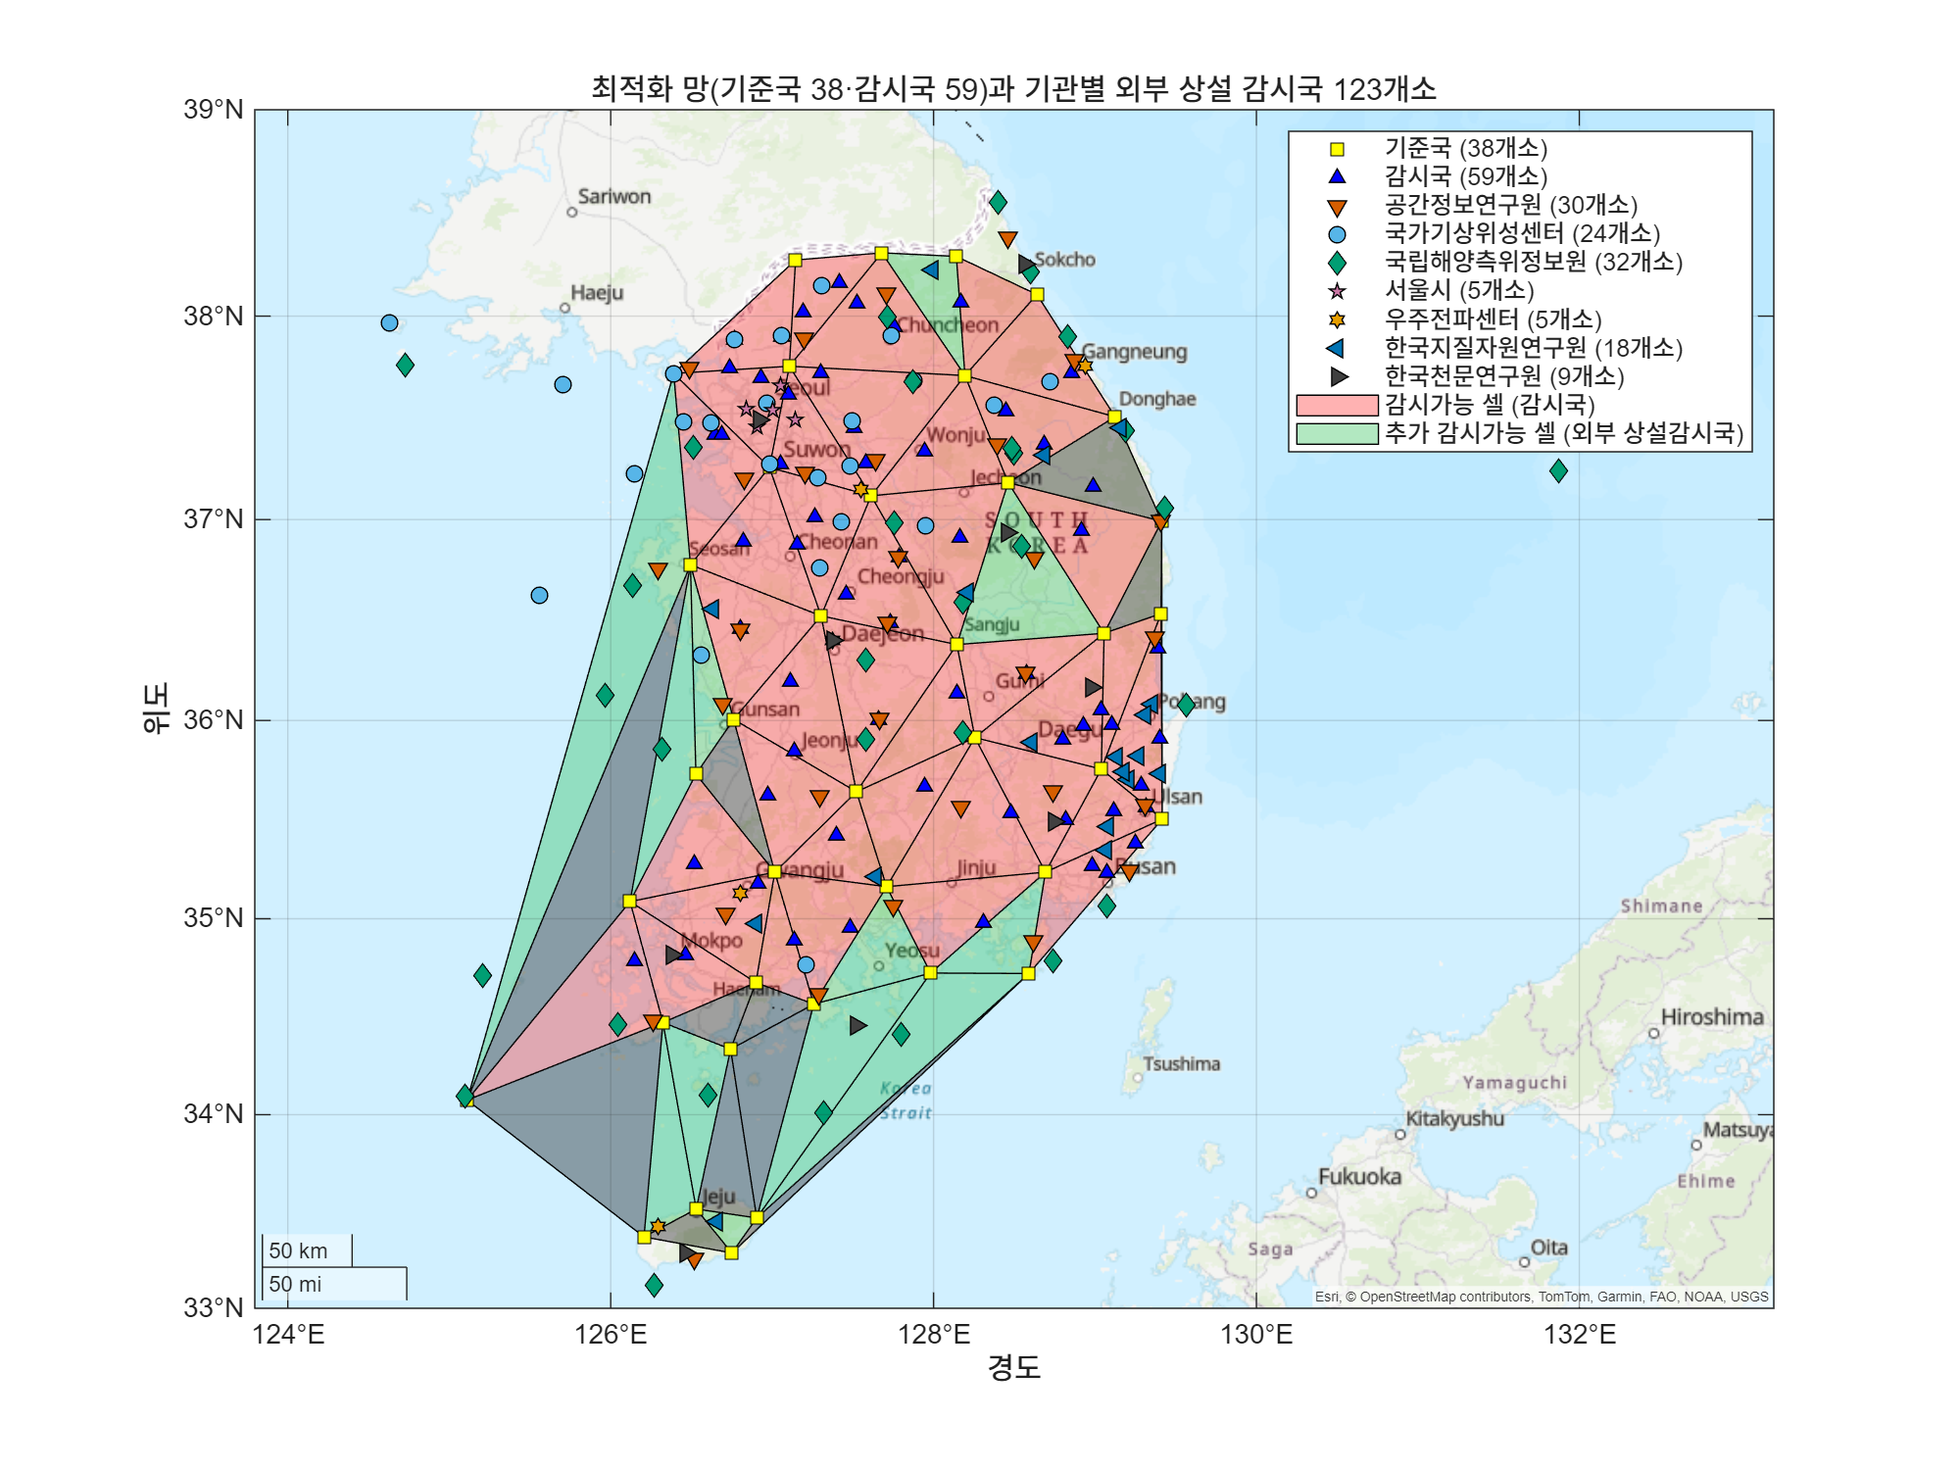
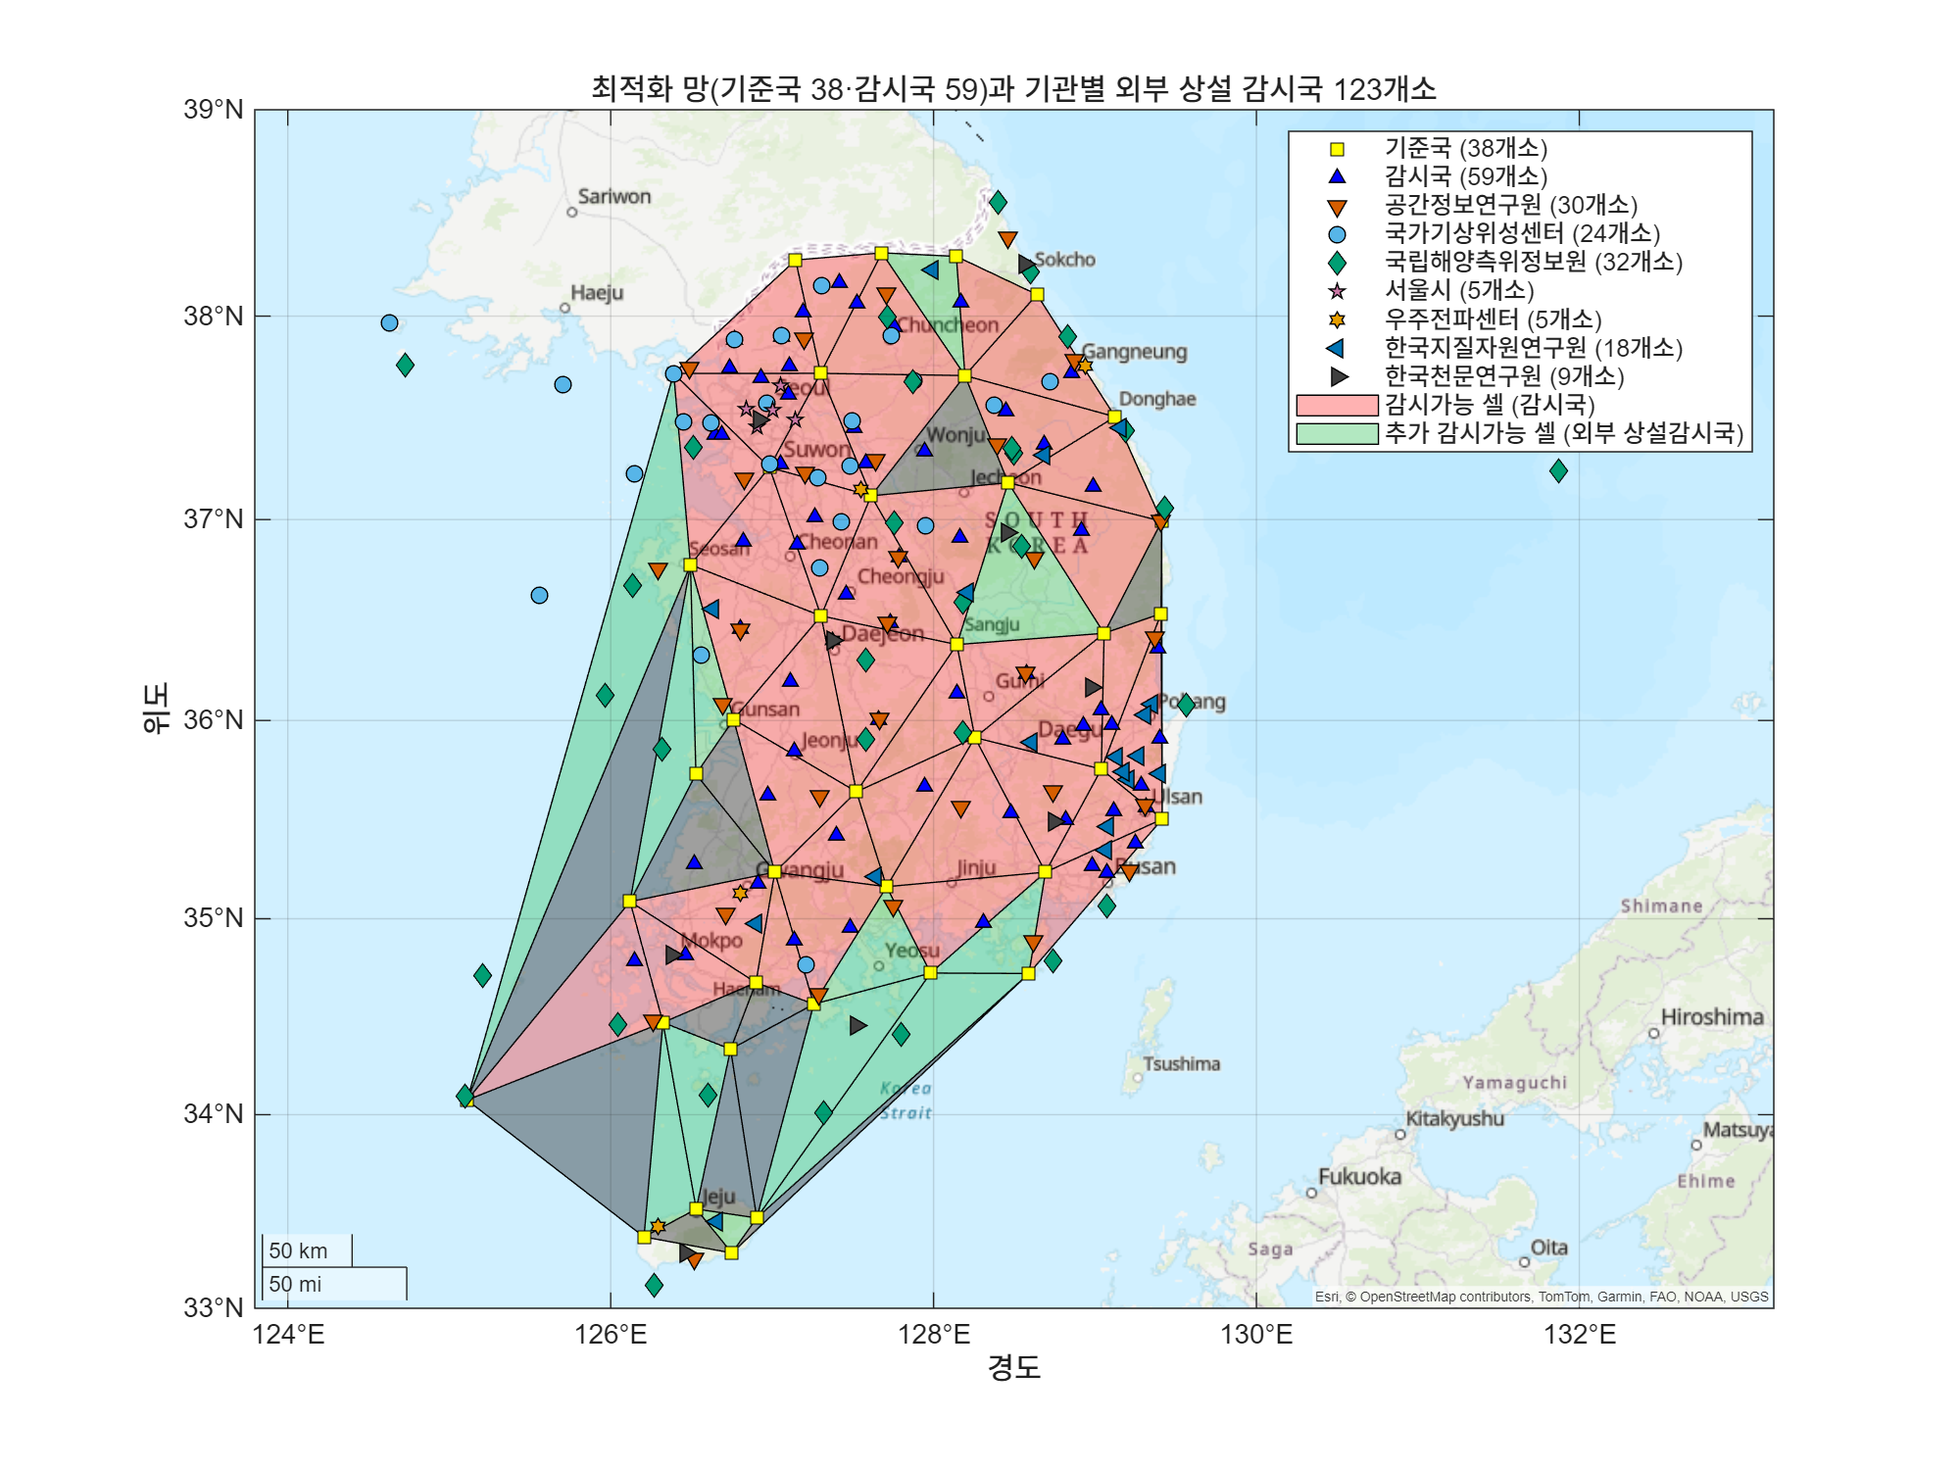
RsrchMt(2026-07-21) 기준국 선별 방식 구현: Score 기반 A7 제약 + cut-off 2종
- 지표 소스: QC xlsx NGII 시트(RINGO — Availability=7일 RTCM 제공률, MP1/2/5,
  SLPS) 조인. 시트 누락 8국(ANSG~CHLW)은 문서 p.9 표 전사. Score 재계산이
  시트 산정치와 실측 MP 89국 전부 일치(최대차 0.0000)로 공식 교차검증
- 선별 규칙(qc_rules 재작성): ① Availability<0.95 cut-off(13국, 이 중 비외곽
  7국 전환 강제) ② SLPS>=10 추가 제외(BONH·SOUL; 외곽 CHUL·HCHN은 예외)
  ③ Q_MPi=min(1, 0.3/MPi) 기하평균 Score ④ A7: sum((S_bar-S_j)x_j)<=0
  (선택 기준국 평균 Score >= 후보 평균) — ILP 단일행 부등식, 그리디 동일 규칙
- SLPS 임계 스윕(문서 지침, Inf/12/10/8/6): 10까지 면적 무손실 85,256km²
  (BONH·SOUL만 제외), 8부터 -6.3% → 10 채택 (net_config.qcMaxSLPS)
- 최종(97국, 100km): ILP 전역최적(gap 0, 36s, 인증 95.67%) 기준국 38/감시국 59,
  유효셀 37, 85,256km², 선택 평균 Score 0.955 (S_bar 0.934)
- 외곽 고정 8국(CHUL·GGEO·JJHG·SGWI·GOJE·YNGU·HCHN·YODK) QC 미달 상태로
  기준국 유지(문서·구조상 예외) — 운영 개선 필요 신호로 경고 로그
- 그리디는 선제 전환 직후 기선 제약 경고 발생 가능(비교 기준 전용, ILP가 주력)

Claude-Session: https://claude.ai/code/session_01UYcRwiTz1XWkLPAKJQoUpf

Changed region(s): [[0.434, 0.2453, 0.589, 0.368], [0.31, 0.5213, 0.403, 0.6133], [0.372, 0.2147, 0.434, 0.276]]

diff --git a/2차/망최적화/qc_rules.m b/2차/망최적화/qc_rules.m
@@ -1,43 +1,56 @@
 function qc = qc_rules(T, cfg)
-% QC_RULES  관측소 가용성(QC) 기반 설계 규칙 마스크 생성 (net_config 임계값 단일 소스)
+% QC_RULES  QC 기반 기준국 선별 규칙 — RsrchMt(2026-07-21, 김주헌) 방식
 %   qc = qc_rules(T, cfg)
-%     T   : load_stations() 4번째 출력 (qcAvailQ4 열 사용; 없거나 NaN 이면 1.0 간주)
-%     cfg : net_config() (qcMinAvailRef / qcMinAvailMon)
-%   출력 qc struct:
-%     .avail       : N×1 가용률 (2025-Q4 OK 비율)
-%     .refOK       : avail >= qcMinAvailRef  — 기준국 자격 (엔진에서 외곽 고정국은 예외 처리)
-%     .monOK       : avail >= qcMinAvailMon  — 감시 인정 (셀 유효 판정 카운트 대상)
-%     .minAvailRef / .minAvailMon / .names
-%   그리디/ILP 엔진에 전달하면: ~refOK & ~외곽 → x_i=0 강제(감시국 전환),
-%   셀 유효 = monOK 감시국 포함 셀. qc=[] 전달 시 규칙 미적용(legacy).
+%     T   : load_stations() 4번째 출력 (qcAvail/qcMP1~5/qcSLPS/qcScore 열 —
+%           QC xlsx 'NGII' 시트 조인본. 시트에 없는 국은 avail=0 취급)
+%     cfg : net_config() (qcMinAvailRef / qcMaxSLPS / qcMPRef / qcScoreA7 / qcMinAvailMon)
+%
+%   문서의 선별 절차:
+%     ① 외곽 기준국은 스코어링 대상 제외(기준국 유지) — 엔진의 isBoundary 예외로 처리
+%     ② Availability < 95% 우선 cut-off            → refOK=false (x_i=0 고정)
+%     ③ SLPS >= 임계값 추가 제외 (임계는 스윕으로 경험적 설정)
+%     ④ 잔여국 MP 정규화 Q_MPi=min(1, 0.3/MPi), Score=(Q1·Q2·Q5)^(1/3) (MP5 없으면 √(Q1·Q2))
+%     ⑤ A7 선형 부등식: Σ(S̄−S_j)x_j ≤ 0 — 선택 기준국 평균 Score ≥ 후보 평균 S̄
+%   출력 qc: .avail .slps .score .refOK .monOK .useA7 .minAvailRef .maxSLPS .names
+%   (monOK 는 문서 외 확장 — 가용성 미달 국은 셀 유효 판정의 감시국으로 카운트하지 않음)
 
     N = height(T);
-    a = ones(N, 1);
-    if ismember('qcAvailQ4', T.Properties.VariableNames)
-        v = T.qcAvailQ4;
-        a(~isnan(v)) = v(~isnan(v));
+    names = string(T.RINEX);
+
+    a = zeros(N, 1);                       % 시트에 없으면 데이터 없음 → 0
+    if ismember('qcAvail', T.Properties.VariableNames)
+        v = T.qcAvail;  a(~isnan(v)) = v(~isnan(v));
     else
-        warning('qc_rules:noQC', 'T 에 qcAvailQ4 열이 없어 전 국 가용률 1.0 으로 간주합니다 (make_stations_ngii 재실행 필요).');
+        warning('qc_rules:noQC', 'T 에 qcAvail 열이 없습니다 (make_stations_ngii 재실행 필요) — 전 국 0 취급.');
+    end
+    slps = Inf(N, 1);
+    if ismember('qcSLPS', T.Properties.VariableNames)
+        v = T.qcSLPS;  slps(~isnan(v)) = v(~isnan(v));
+    end
+    score = NaN(N, 1);
+    if ismember('qcScore', T.Properties.VariableNames)
+        score = T.qcScore;
     end
 
-    qc.avail = a;
-    qc.minAvailRef = cfg.qcMinAvailRef;
-    qc.minAvailMon = cfg.qcMinAvailMon;
-    qc.refOK = a >= qc.minAvailRef;
-    qc.monOK = a >= qc.minAvailMon;
-    qc.names = string(T.RINEX);
+    availOK = a >= cfg.qcMinAvailRef;
+    slpsOK  = slps < cfg.qcMaxSLPS;
 
-    fprintf('[QC 규칙] 가용률(2025-Q4) 임계: 기준국 %.2f / 감시 인정 %.2f\n', ...
-        qc.minAvailRef, qc.minAvailMon);
-    if any(~qc.refOK)
-        bad = find(~qc.refOK);
-        fprintf('  기준국 부적격 %d국: %s\n', numel(bad), ...
-            strjoin(compose("%s(%.0f%%)", qc.names(bad), 100*a(bad))', ', '));
+    qc.avail = a;  qc.slps = slps;  qc.score = score;  qc.names = names;
+    qc.minAvailRef = cfg.qcMinAvailRef;  qc.maxSLPS = cfg.qcMaxSLPS;
+    qc.refOK = availOK & slpsOK;
+    qc.useA7 = isfield(cfg, 'qcScoreA7') && cfg.qcScoreA7;
+    qc.monOK = a >= cfg.qcMinAvailMon;
+
+    fprintf('[QC 규칙/RsrchMt] Availability>=%.2f & SLPS<%g, A7(평균 Score 제약)=%d\n', ...
+        cfg.qcMinAvailRef, cfg.qcMaxSLPS, qc.useA7);
+    cutA = find(~availOK);
+    fprintf('  Availability cut-off %d국: %s\n', numel(cutA), ...
+        strjoin(compose("%s(%.2f)", names(cutA), a(cutA))', ', '));
+    cutS = find(availOK & ~slpsOK);
+    if ~isempty(cutS)
+        fprintf('  SLPS 추가 제외 %d국: %s\n', numel(cutS), ...
+            strjoin(compose("%s(%.1f)", names(cutS), slps(cutS))', ', '));
     else
-        fprintf('  기준국 부적격 없음\n');
-    end
-    ex = find(qc.refOK & ~qc.monOK);
-    if ~isempty(ex)
-        fprintf('  감시 인정 추가 제외 %d국: %s\n', numel(ex), strjoin(qc.names(ex)', ', '));
+        fprintf('  SLPS 추가 제외 없음\n');
     end
 end

diff --git a/2차/망최적화/make_stations_ngii.m b/2차/망최적화/make_stations_ngii.m
@@ -122,9 +122,64 @@ else
     fprintf('\n[QC] %s 없음 — qcOkDays2025/qcAvailQ4 = NaN (파일 추가 후 재실행 시 자동 조인)\n', qcFile);
 end
 
+%% 3b) 'NGII' 시트 조인 — RsrchMt(2026-07-21) 기준국 선별용 지표 (헤더 없음, 열 위치 고정)
+%  Var1=station / Var2=Availability / Var3~5=MP1/2/5 [m] / Var6=SLPS
+%  / Var7=Score(문서 산정치 — 재계산 교차검증용) / Var8~10=ECEF / Var18=인접국
+%  Score 정의(문서): Q_MPi = min(1, 0.3/MPi), S = (Q1·Q2·Q5)^(1/3) (MP5 없으면 (Q1·Q2)^(1/2))
+qcAvail = NaN(n,1); qcMP1 = NaN(n,1); qcMP2 = NaN(n,1); qcMP5 = NaN(n,1);
+qcSLPS = NaN(n,1); qcScore = NaN(n,1);
+if isfile(qcFile) && any(strcmp(sheetnames(qcFile), 'NGII'))
+    J = readtable(qcFile, 'Sheet', 'NGII', 'ReadVariableNames', false);
+    [tfj, locj] = ismember(G.station, string(J.Var1));
+    qcAvail(tfj) = J.Var2(locj(tfj));
+    qcMP1(tfj) = J.Var3(locj(tfj));  qcMP2(tfj) = J.Var4(locj(tfj));  qcMP5(tfj) = J.Var5(locj(tfj));
+    qcSLPS(tfj) = J.Var6(locj(tfj));
+    fprintf('[QC/NGII] 시트 %d행 중 %d국 매칭 / 시트에 없는 국 %d개(%s)\n', ...
+        height(J), nnz(tfj), nnz(~tfj), strjoin(G.station(~tfj)', ', '));
+
+    % 시트 누락 8국(ANSG~CHLW): RsrchMt(2026-07-21) p.9 표 전사.
+    % Availability 는 7일 RTCM 제공률이라 Daily QC(RINEX)로 재계산 불가 — 문서가 유일 소스.
+    FB = {  % station  avail   MP1    MP2    MP5    SLPS
+        'ANSG', 0.000, 0.374, 0.363, NaN,   0.953;
+        'BOEN', 0.985, 0.239, 0.298, NaN,   3.398;
+        'BONH', 0.985, 0.458, 0.470, 0.472, 12.352;
+        'BSNG', 0.980, 0.113, 0.165, 0.131, 2.843;
+        'CCSB', 0.979, 0.098, 0.133, 0.124, 1.731;
+        'CHEN', 0.981, 0.408, 0.380, 0.452, 5.860;
+        'CHJU', 0.985, 0.316, 0.351, 0.357, 3.220;
+        'CHLW', 0.985, 0.331, 0.329, NaN,   2.893};
+    for r = 1:size(FB,1)
+        k = find(G.station == string(FB{r,1}), 1);
+        if ~isempty(k) && isnan(qcAvail(k))
+            qcAvail(k) = FB{r,2};  qcMP1(k) = FB{r,3};  qcMP2(k) = FB{r,4};
+            qcMP5(k)  = FB{r,5};  qcSLPS(k) = FB{r,6};
+        end
+    end
+
+    % Score 산정 (문서 정의; MP1/MP2 없는 국은 NaN — avail cut 대상이라 실사용 없음)
+    valid12 = ~isnan(qcMP1) & ~isnan(qcMP2);
+    Q1 = min(1, 0.3./qcMP1);  Q2 = min(1, 0.3./qcMP2);  Q5 = min(1, 0.3./qcMP5);
+    has5 = valid12 & ~isnan(qcMP5) & qcMP5 > 0;
+    qcScore(has5) = (Q1(has5).*Q2(has5).*Q5(has5)).^(1/3);
+    no5 = valid12 & ~has5;
+    qcScore(no5) = (Q1(no5).*Q2(no5)).^(1/2);
+
+    % 시트 Var7(문서 산정 Score)과 교차검증 — 시트에 실측 MP가 있는 행만
+    sheetScore = NaN(n,1); sheetScore(tfj) = J.Var7(locj(tfj));
+    chk = tfj & valid12;
+    dS = abs(qcScore(chk) - sheetScore(chk));
+    fprintf('[QC/NGII] Score 재계산 vs 시트(실측 MP %d국): 최대차 %.4f\n', nnz(chk), max(dS));
+    fprintf('[QC/NGII] Availability<0.95: %d국 — %s\n', nnz(qcAvail < 0.95 | isnan(qcAvail)), ...
+        strjoin(G.station(qcAvail < 0.95 | isnan(qcAvail))', ', '));
+else
+    fprintf('[QC/NGII] 시트 없음 — 선별 지표 = NaN\n');
+end
+
 %% 4) 저장
-S = table(G.station, Name, G.lat, G.lon, G.hEll, Proj, G.status, G.src, qcOkDays2025, qcAvailQ4, ...
-    'VariableNames', {'RINEX','Name','lat','lon','Height','Proj','status','src','qcOkDays2025','qcAvailQ4'});
+S = table(G.station, Name, G.lat, G.lon, G.hEll, Proj, G.status, G.src, ...
+    qcOkDays2025, qcAvailQ4, qcAvail, qcMP1, qcMP2, qcMP5, qcSLPS, qcScore, ...
+    'VariableNames', {'RINEX','Name','lat','lon','Height','Proj','status','src', ...
+                      'qcOkDays2025','qcAvailQ4','qcAvail','qcMP1','qcMP2','qcMP5','qcSLPS','qcScore'});
 meta = struct('created', datestr(now), ...
     'source', 'Data/CORS_coordinate_최종본.xlsx (OBS_HEADER, 고시 ECEF→GRS80)', ...
     'nAll', n, 'nDesign', nnz(S.status == "ok"), ...

diff --git a/2차/망최적화/greedy_monitor_net.m b/2차/망최적화/greedy_monitor_net.m
@@ -41,16 +41,23 @@ function [isRef, info] = greedy_monitor_net(lon, lat, maxBaseKm, boundaryShrink,
     len0 = deg2km(distance(lat(E0(:,1)), lon(E0(:,1)), lat(E0(:,2)), lon(E0(:,2))));
     grandPairs = sort(E0(len0 > maxBaseKm, :), 2);
 
-    % --- 2b) QC 가용성 규칙 (qc_rules.m; ILP와 동일) ---
-    refAllowed = true(N,1);  monOK = true(N,1);
+    % --- 2b) QC 가용성/품질 규칙 (qc_rules.m; ILP와 동일) ---
+    refAllowed = true(N,1);  monOK = true(N,1);  a7 = [];
     if ~isempty(qc)
         refAllowed = qc.refOK(:) | isBoundary;   % 외곽 고정국은 구조상 예외
         monOK = qc.monOK(:);
+        if isfield(qc,'useA7') && qc.useA7 && isfield(qc,'score')
+            candMask = ~isBoundary & refAllowed & ~isnan(qc.score(:));
+            if any(candMask)
+                a7 = struct('mask', candMask, 'score', qc.score(:), ...
+                            'Sbar', mean(qc.score(candMask)));
+            end
+        end
     end
 
     % --- 3) 초기 상태 (QC 부적격 국은 선제 전환) ---
     isRef = refAllowed;
-    [feas0, Va, Nc] = configMetrics(lon, lat, isRef, maxBaseKm, grandPairs, monOK);
+    [feas0, Va, Nc] = configMetrics(lon, lat, isRef, maxBaseKm, grandPairs, monOK, a7);
     if ~feas0
         warning('greedy_monitor_net:qcInfeasible', ...
             'QC 선제 전환 직후 상태가 기선 제약을 위반합니다 — 결과 해석에 주의.');
@@ -68,7 +75,7 @@ function [isRef, info] = greedy_monitor_net(lon, lat, maxBaseKm, boundaryShrink,
         for ii = 1:numel(cand)
             x = cand(ii);
             tent = isRef; tent(x) = false;
-            [feas, Va_x, Nc_x] = configMetrics(lon, lat, tent, maxBaseKm, grandPairs, monOK);
+            [feas, Va_x, Nc_x] = configMetrics(lon, lat, tent, maxBaseKm, grandPairs, monOK, a7);
             if ~feas; continue; end
             g = pick(isArea, Va_x, Nc_x) - cur;
             if g > bestGain
@@ -97,8 +104,16 @@ function v = pick(isArea, a, c)
 end
 
 % ========================================================================
-function [feasible, Varea, Ncells] = configMetrics(lon, lat, isRef, maxBaseKm, grandPairs, monOK)
+function [feasible, Varea, Ncells] = configMetrics(lon, lat, isRef, maxBaseKm, grandPairs, monOK, a7)
     if nargin < 6 || isempty(monOK); monOK = true(numel(lon),1); end
+    if nargin < 7; a7 = []; end
+    % A7 평균 품질 제약 (선택된 후보 기준국 평균 Score >= 후보 평균 S̄)
+    if ~isempty(a7)
+        sel = isRef(:) & a7.mask;
+        if any(sel) && mean(a7.score(sel)) < a7.Sbar - 1e-12
+            feasible = false; Varea = 0; Ncells = 0; return;
+        end
+    end
     R = find(isRef);
     if numel(R) < 3; feasible = false; Varea = 0; Ncells = 0; return; end
     lonR = lon(R); latR = lat(R);

diff --git a/2차/망최적화/net_config.m b/2차/망최적화/net_config.m
@@ -7,10 +7,15 @@ function cfg = net_config()
     cfg.maxBaseKm = 100;   % 신설 기선 최대 길이 [km] (초기망의 초과 기선은 grandfather 예외)
     cfg.nOuter    = 13;    % 최외곽 고정 노드 수 (볼록껍질 12 + 동해안 YODK = 13)
 
-    % QC 가용성 설계 규칙 (stations_ngii.mat 의 qcAvailQ4 = 2025-Q4 OK 비율 기준;
-    %  qc_rules.m 이 마스크 생성 → 그리디/ILP 에 선형 부등식(변수 고정)으로 반영)
-    cfg.qcMinAvailRef = 0.95;  % 기준국 자격 하한: 미달 국은 감시국 전환 강제 (x_i=0).
-                               %  단, 외곽 고정국은 커버리지 구조상 예외(경고만).
-    cfg.qcMinAvailMon = 0.95;  % 감시 인정 하한: 미달 국은 셀 유효 판정에 카운트하지 않음
-                               %  (그 국만 든 셀은 "감시가능"으로 세지 않음)
+    % QC 기반 기준국 선별 규칙 — RsrchMt(2026-07-21, 김주헌) 방식.
+    %  지표 소스 = QC xlsx 'NGII' 시트(RINGO 연간: Availability·MP1/2/5·SLPS),
+    %  stations_ngii.mat 에 조인됨. qc_rules.m 이 마스크/Score 생성 → 그리디/ILP 반영.
+    cfg.qcMinAvailRef = 0.95;  % ① Availability 95% 미만 cut-off (기준국 부적격, x_i=0
+                               %    고정). 외곽 고정국은 스코어링 대상 제외(기준국 유지).
+    cfg.qcMaxSLPS     = 10;    % ② SLPS 임계 초과 추가 제외 — 문서 지침대로 망 재구성
+                               %    반복 비교(스윕)로 경험적 설정. Inf = 비활성.
+    cfg.qcMPRef       = 0.3;   % ③ MP 정규화 기준 [m] (IGS 권고값)
+    cfg.qcScoreA7     = true;  % ④ A7 평균 품질 제약: 선택 기준국 평균 Score >= 후보 평균
+    cfg.qcMinAvailMon = 0.95;  % (문서 외 확장 유지) 감시 인정 하한 — 미달 국은 셀 유효
+                               %  판정에 카운트하지 않음
 end

diff --git a/2차/망최적화/ilp_area_max.m b/2차/망최적화/ilp_area_max.m
@@ -205,9 +205,22 @@ function [isRef, info] = ilp_area_max(lon, lat, maxBaseKm, boundaryShrink, qc)
     % ---- overlap/clique 제약 (겹치는 후보 삼각형 동시선택 금지: 퇴화 해소 + LP 강화) ----
     tO = tic;
     [Aov, bov, nClq] = overlap_constraints(presentTris, lon, lat, N);
-    A = [A; Aov]; 
+    A = [A; Aov];
     b_ineq = [b_ineq; bov];
     plog(sprintf('[ILP] overlap(clique) 제약 %d행 추가, 총제약 %d (%.1fs)', nClq, size(A,1), toc(tO)));
+
+    % ---- A7: 평균 품질(Score) 제약 (RsrchMt 2026-07-21) ----
+    %   Σ_j (S̄ − S_j)·x_j ≤ 0  ⇔  선택된 후보 기준국의 평균 Score ≥ 후보 전체 평균 S̄.
+    %   후보 = 외곽 아님 & 자격(refAllowed) & Score 있음. 외곽·부적격 국은 문서대로 제외.
+    if ~isempty(qc) && isfield(qc,'useA7') && qc.useA7 && isfield(qc,'score')
+        candJ = find(~isBoundary & refAllowed & ~isnan(qc.score(:)));
+        if ~isempty(candJ)
+            Sj = qc.score(candJ);  Sbar = mean(Sj);
+            rowA7 = sparse(ones(numel(candJ),1), candJ, Sbar - Sj, 1, nz);
+            A = [A; rowA7]; b_ineq = [b_ineq; 0];
+            plog(sprintf('[ILP] A7 평균품질 제약 추가: 후보 %d국, S_bar=%.3f', numel(candJ), Sbar));
+        end
+    end
 
     % ---- LP 완화 상한 (dual bound) ----
     tLP = tic;
